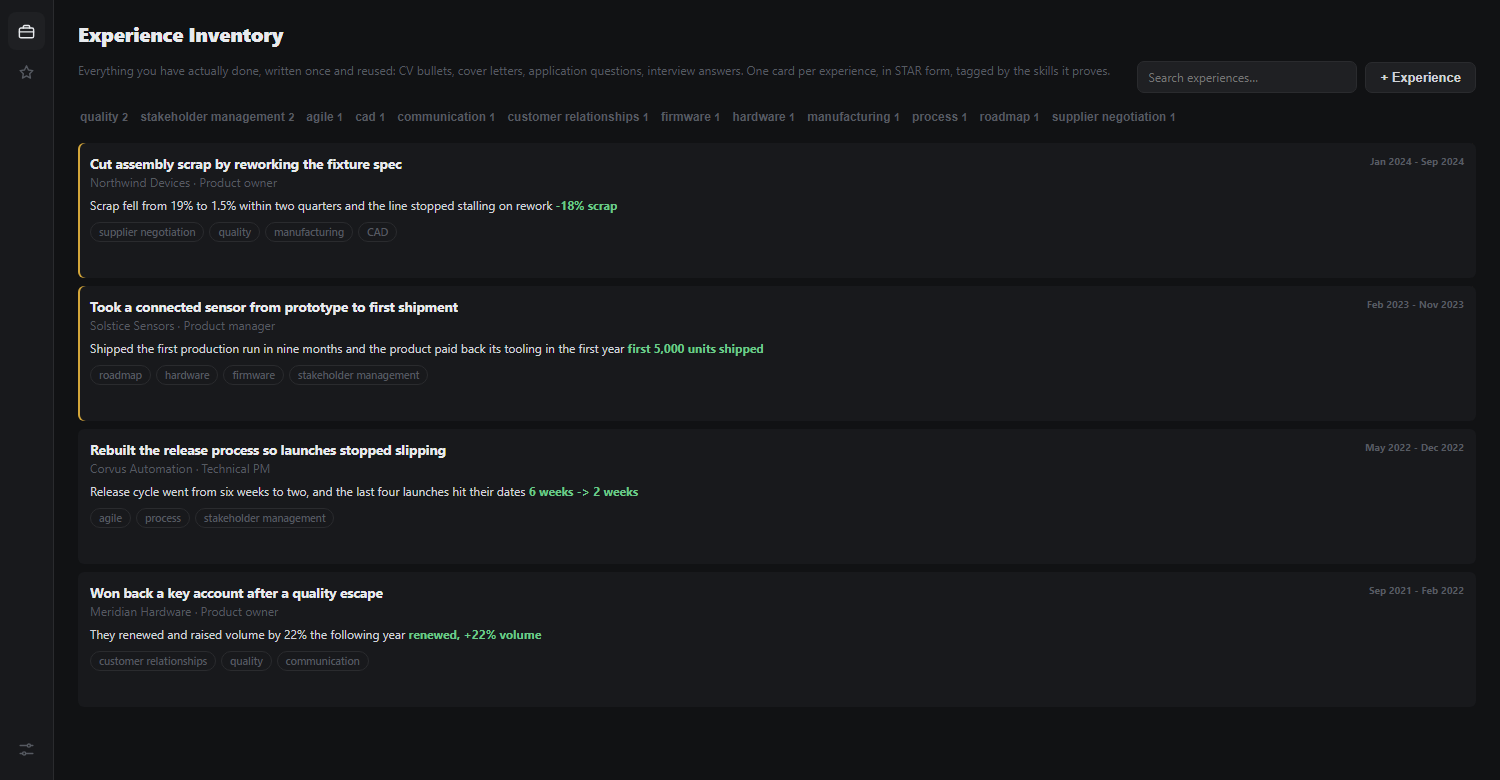
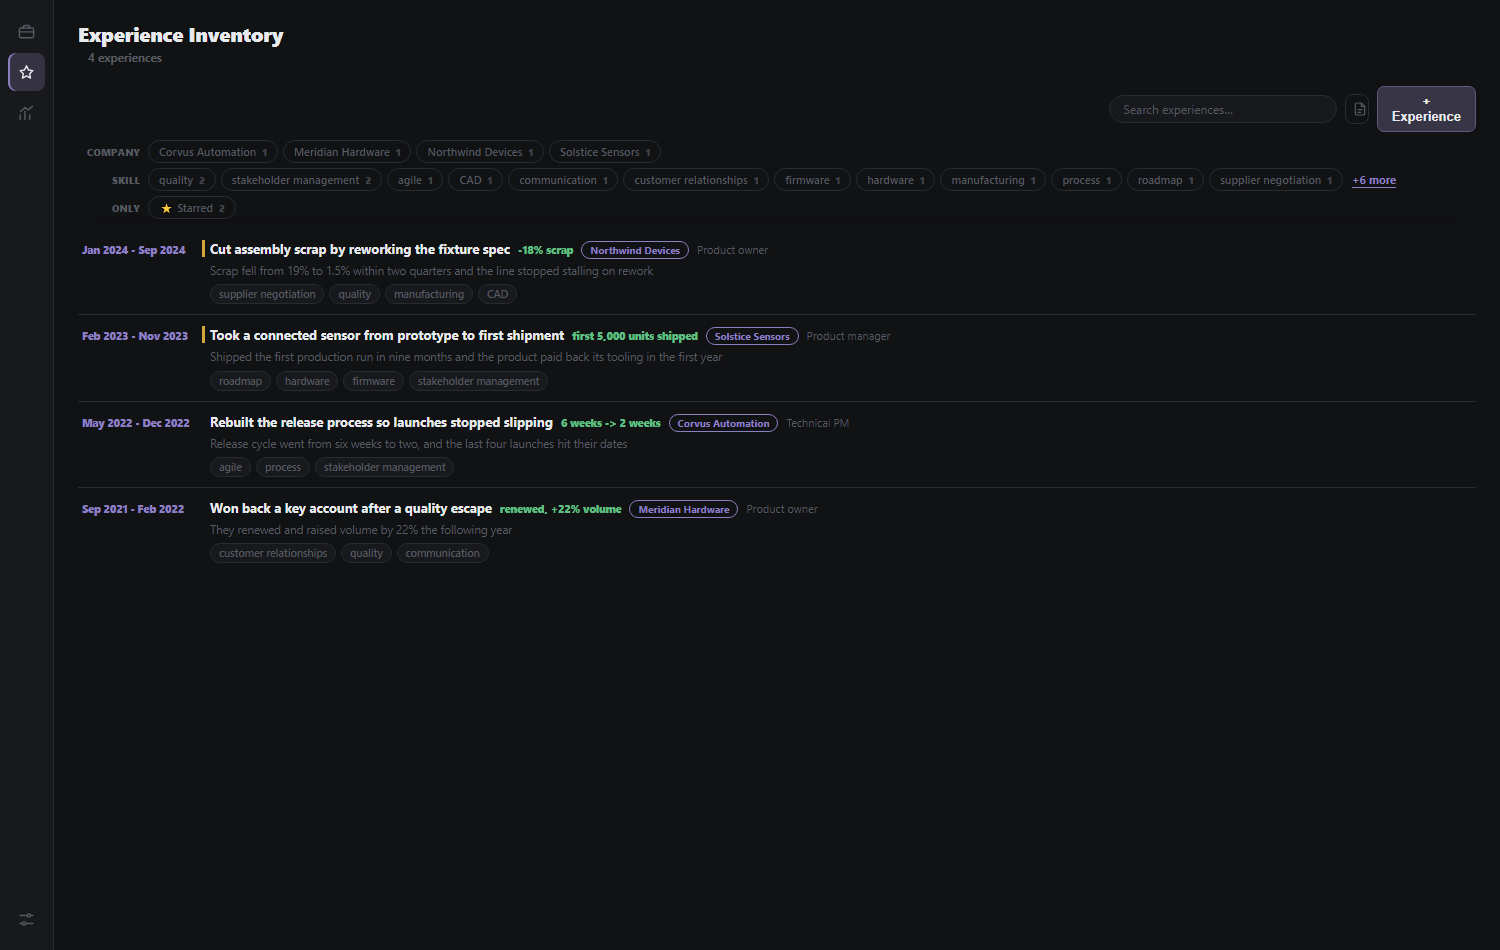
Show the current app: invented data in today's model, fresh screenshots
Demo data rewritten for the current UI (task states and notes, job flow steps and a network,
trips with day plans, nights and photos), with dates relative to the visitor's today. README
screenshots retaken in a real browser and the README updated to match.

diff --git a/index.html b/index.html
@@ -1939,7 +1939,45 @@ const INITIAL_JOBS = [
   { id:10, company:'Northwind Devices', role:'Senior Product Owner, Firmware', status:'Saved', priority:'Low',
     url:'', datePosted:'2026-07-17',
     notes:'Montreal, QC (Hybrid). A second Northwind role - folds under one company card in the Saved log (see the Hidden drawer). Flag a role to choose which one shows.' },
-];const SEED = 'v55';
+];const dIn = n => { const d = new Date(); d.setDate(d.getDate() + n); return d.getFullYear() + '-' + String(d.getMonth() + 1).padStart(2, '0') + '-' + String(d.getDate()).padStart(2, '0'); };
+const DEMO_STEPS = {
+  1: [ { kind:'cold', on:dIn(-12), who:'Jordan Lee', title:'Talent Acquisition Partner', label:'Message on LinkedIn, mutual connection' },
+       { kind:'reply', on:dIn(-10), who:'Jordan Lee', title:'Talent Acquisition Partner', label:'Asked for my CV' },
+       { kind:'cv', on:dIn(-10), who:'Jordan Lee', title:'Talent Acquisition Partner', label:'CV sent' },
+       { kind:'site', on:dIn(-9), label:'Applied on their careers page' },
+       { kind:'screen', on:dIn(-3), who:'Jordan Lee', title:'Talent Acquisition Partner', label:'30-minute phone screen' } ],
+  2: [ { kind:'site', on:dIn(-20), label:'Applied online' },
+       { kind:'screen', on:dIn(-13), who:'Sam Rivera', title:'Senior Recruiter', label:'Recruiter screen' },
+       { kind:'interview', on:dIn(-6), who:'Ella Fischer', title:'Head of Product', label:'First interview' } ],
+  3: [ { kind:'referral', on:dIn(-30), who:'Maya Chen', title:'Engineering Manager', label:'Intro from a former colleague' },
+       { kind:'screen', on:dIn(-24), who:'Daniel Okafor', title:'Talent Partner', label:'Recruiter screen' },
+       { kind:'interview', on:dIn(-15), who:'Maya Chen', title:'Engineering Manager', label:'First interview' },
+       { kind:'interview', on:dIn(-4), who:'Panel', title:'Product, engineering, ops', label:'Second round, panel' } ],
+  4: [ { kind:'inbound', on:dIn(-5), who:'Alex Moreau', title:'Recruiter', label:'Recruiter reached out' },
+       { kind:'reply', on:dIn(-4), who:'Alex Moreau', title:'Recruiter', label:'Replied, sent CV' } ],
+  5: [ { kind:'site', on:dIn(-2), label:'Applied online' } ],
+  6: [ { kind:'site', on:dIn(-26), label:'Applied online' },
+       { kind:'followup', on:dIn(-12), label:'Follow-up to the hiring team' } ],
+  8: [ { kind:'site', on:dIn(-40), label:'Applied online' },
+       { kind:'interview', on:dIn(-28), who:'Grace Kim', title:'Engineering Manager', label:'First interview' },
+       { kind:'interview', on:dIn(-15), who:'Panel', title:'Leadership', label:'Final round' } ],
+  9: [ { kind:'site', on:dIn(-35), label:'Applied online' },
+       { kind:'interview', on:dIn(-20), who:'Lucia Ferreira', title:'Senior Product Owner', label:'First interview' } ],
+};
+const DEMO_STATUS = { 1:'Waiting 1st interview', 2:'Waiting 2nd interview', 3:'Waiting 2nd result', 4:'Applied', 5:'Applied', 6:'No answer' };
+{
+
+  const shift = Math.round((new Date(dIn(0)) - new Date('2026-07-20')) / 86400000);
+  const move = v => (typeof v === 'string' && /^\d{4}-\d{2}-\d{2}$/.test(v)) ? (d => { d.setDate(d.getDate() + shift); return d.toISOString().slice(0, 10); })(new Date(v + 'T12:00:00')) : v;
+  INITIAL_JOBS.forEach(j => {
+    ['datePosted', 'appliedOn'].forEach(k => { if (j[k]) j[k] = move(j[k]); });
+    (j.people || []).forEach(p => { if (p.contactedOn) p.contactedOn = move(p.contactedOn); });
+    if (DEMO_STATUS[j.id]) j.status = DEMO_STATUS[j.id];
+    if (j.id === 7) j.priority = 'High';
+    if (DEMO_STEPS[j.id] && !(j.steps && j.steps.length)) j.steps = DEMO_STEPS[j.id];
+  });
+}
+const SEED = 'v55';
 
 const STATUS_ORDER = ['Saved','Applied','Waiting 1st interview','Waiting 1st result','Waiting 2nd interview','Waiting 2nd result','Offer','No answer','Rejected'];
 const STATUS_CLASS = { 'No answer':'s-noanswer', 'Saved':'s-saved','Applied':'s-applied','Waiting 1st interview':'s-wait-int','Waiting 1st result':'s-wait-res','Waiting 2nd interview':'s-wait-int','Waiting 2nd result':'s-wait-res','Offer':'s-offer','Rejected':'s-rejected' };
@@ -2044,9 +2082,9 @@ const NET_TIERS = [
   { id:'colleague', label:'Ex-colleague', rank:1, ask:'advice' },
   { id:'door',      label:'Inside a target', rank:2, ask:'advice' },
   { id:'pm',        label:'Product manager', rank:3, ask:'advice' },
-  { id:'pmo',       label:'Doing rung 3 now', rank:4, ask:'advice' },
-  { id:'rail',      label:'Rail / transit', rank:5, ask:'advice' },
-  { id:'alumni',    label:'ETS / school', rank:6, ask:'advice' },
+  { id:'pmo',       label:'Programme managers', rank:4, ask:'advice' },
+  { id:'rail',      label:'Industry peers', rank:5, ask:'advice' },
+  { id:'alumni',    label:'Alumni / school', rank:6, ask:'advice' },
   { id:'recruiter', label:'Recruiter', rank:7, ask:'recruiter' },
   { id:'wider',     label:'Wider network', rank:9, ask:'advice' },
 ];
@@ -2058,7 +2096,32 @@ const NET_STATUS = [
   { id:'closed',  label:'Parked' },
 ];
 
-const NET_SEED = [];
+const NET_SEED = [
+  { n:'Priya Nair', t:'Product Manager, Platform', o:'Nimbus Robotics', k:'pm', s:'todo', star:true, pin:true,
+    w:'Closest person to the target role: engineer turned platform PM, same industry.', a:'20 minutes of advice: how she made the move and what a panel probes.' },
+  { n:'Jordan Lee', t:'Talent Acquisition Partner', o:'Nimbus Robotics', k:'live', s:'talking',
+    w:'Live thread: ran the phone screen and is waiting on the hiring manager.', a:'Ask for the next step and the timeline.' },
+  { n:'Maya Chen', t:'Engineering Manager', o:'Northwind Devices', k:'colleague', s:'replied', star:true,
+    w:'Former colleague who made the intro. Knows the final-round panel.', a:'What did the panel want to hear that it did not?' },
+  { n:'Daniel Okafor', t:'Talent Partner', o:'Northwind Devices', k:'recruiter', s:'written',
+    w:'Recruiter on the second round.', a:'Feedback on the final round, and other open roles.' },
+  { n:'Tom Brennan', t:'Program Director', o:'Atlas Manufacturing', k:'pmo', s:'todo',
+    w:'Runs the programme office. Delivery framing fits here.', a:'How programme managers move into product at Atlas.' },
+  { n:'Grace Kim', t:'Engineering Manager', o:'Helios Energy', k:'door', s:'written',
+    w:'Inside a target company, interviewed last month.', a:'Is there an internal track from engineering to product?' },
+  { n:'Lucia Ferreira', t:'Senior Product Owner', o:'Beacon Retail Systems', k:'pm', s:'todo',
+    w:'Product owner in IoT for retail.', a:'Advice on moving into software-heavy products.' },
+  { n:'Alex Moreau', t:'Recruiter', o:'Brightpath Talent', k:'recruiter', s:'replied',
+    w:'Agency recruiter who reached out first.', a:'Share the target: hardware product roles only.' },
+  { n:'Chris Walsh', t:'Senior Mechanical Engineer', o:'Solstice Sensors', k:'colleague', s:'todo',
+    w:'Worked together on the sensor launch.', a:'Catch up, and who else he knows in product.' },
+  { n:'Nina Petrova', t:'Product Manager', o:'Meridian Hardware', k:'alumni', s:'todo',
+    w:'Same engineering school, now a PM.', a:'Alumni advice call.' },
+  { n:'Omar Haddad', t:'Operations Lead', o:'Corvus Automation', k:'rail', s:'closed',
+    w:'Industry peer from the automation meetup.', a:'Parked until the next meetup.' },
+  { n:'Ella Fischer', t:'Head of Product', o:'Volta EV', k:'door', s:'todo', star:true,
+    w:'Owns the role that went on hold.', a:'A warm note asking what else the team plans to hire for.' },
+];
 
 const NET_WIDER = [];
 

diff --git a/README.md b/README.md
@@ -8,7 +8,7 @@ are invented, and anything you change stays in your own browser.
 
 ---
 
-## The two pages
+## The pages
 
 The left rail has one icon per page. Hover an icon to see its name.
 
@@ -27,8 +27,10 @@ Every role you are chasing, in one board.
   three ways: how much of what they ask for you actually have, whether the seniority matches, and
   whether the role and industry are your kind of work. Hover it for the breakdown and the list of
   what you are missing.
-- **Contacts per role**, in order: the person at the top is your principal contact and shows with a
-  star. Moving a role to *Applied* asks who you contacted and when, so a follow-up is never lost.
+- **The story of each application, step by step**: applied online, a cold message, a referral, a
+  reply, a screen, each interview - who it was with and when. The card knows whose move it is.
+- **What you have been doing**: the strip at the top lists every step of the last days, one chip per
+  company, so a quiet week is visible.
 - **What the job offers**, not what it demands: the chips on a card are work mode, location, salary
   and the perks worth knowing about.
 - **Notes, posting link, full description, dates**, and an archive drawer for the roles you drop.
@@ -70,6 +72,31 @@ What having it gives you:
 
 Nothing here is generated for you. The inventory is what *you* did; the app makes it reusable.
 
+### 3. Strategy - is the search working?
+
+![the strategy dashboard](docs/screenshot-strategy.png)
+
+- **The funnel, computed off the board**: approached, answered, screened, interviewed, second round,
+  offer, with the conversion between each. Hover a stage for who is in it.
+- **Channels**: which way in (applying online, cold messages, referrals, recruiters) actually led to
+  interviews, so effort goes where it converts.
+- **Your own read of the search** around it - the target, what is leaking, what works, the next moves
+  and the rules you hold yourself to - plus a **hiring calendar** marking the strong and dead windows
+  of the year.
+
+### 4. Who can land it - the network
+
+![the network queue](docs/screenshot-network.png)
+
+A job hunt is won through people. This page keeps them:
+
+- **Write next**: a queue, not a contact list. One person at a time, with **why they matter and what
+  to ask**; mark it sent or archive it and the next name moves up.
+- **Tiers**: live threads first, then ex-colleagues, people inside target companies, product managers,
+  alumni, recruiters.
+- **Every route in**, grouped by the kind of role, and **drafted messages** that respect who you are
+  writing to: an employee gets an advice request with no job ask, a recruiter can be offered the CV.
+
 ---
 
 ## Under the hood
@@ -91,7 +118,7 @@ Small, separate apps that share a look but nothing else - separate data, separat
 | Task Tracker | https://github.com/DereckCB/task-tracker |
 | Job Search | this one |
 | Trip Planner | https://github.com/DereckCB/trip-planner |
-| Household Budget | https://github.com/DereckCB/budget |
+| Household Budget | https://github.com/DereckCB/household-budget |
 
 ## License
 
